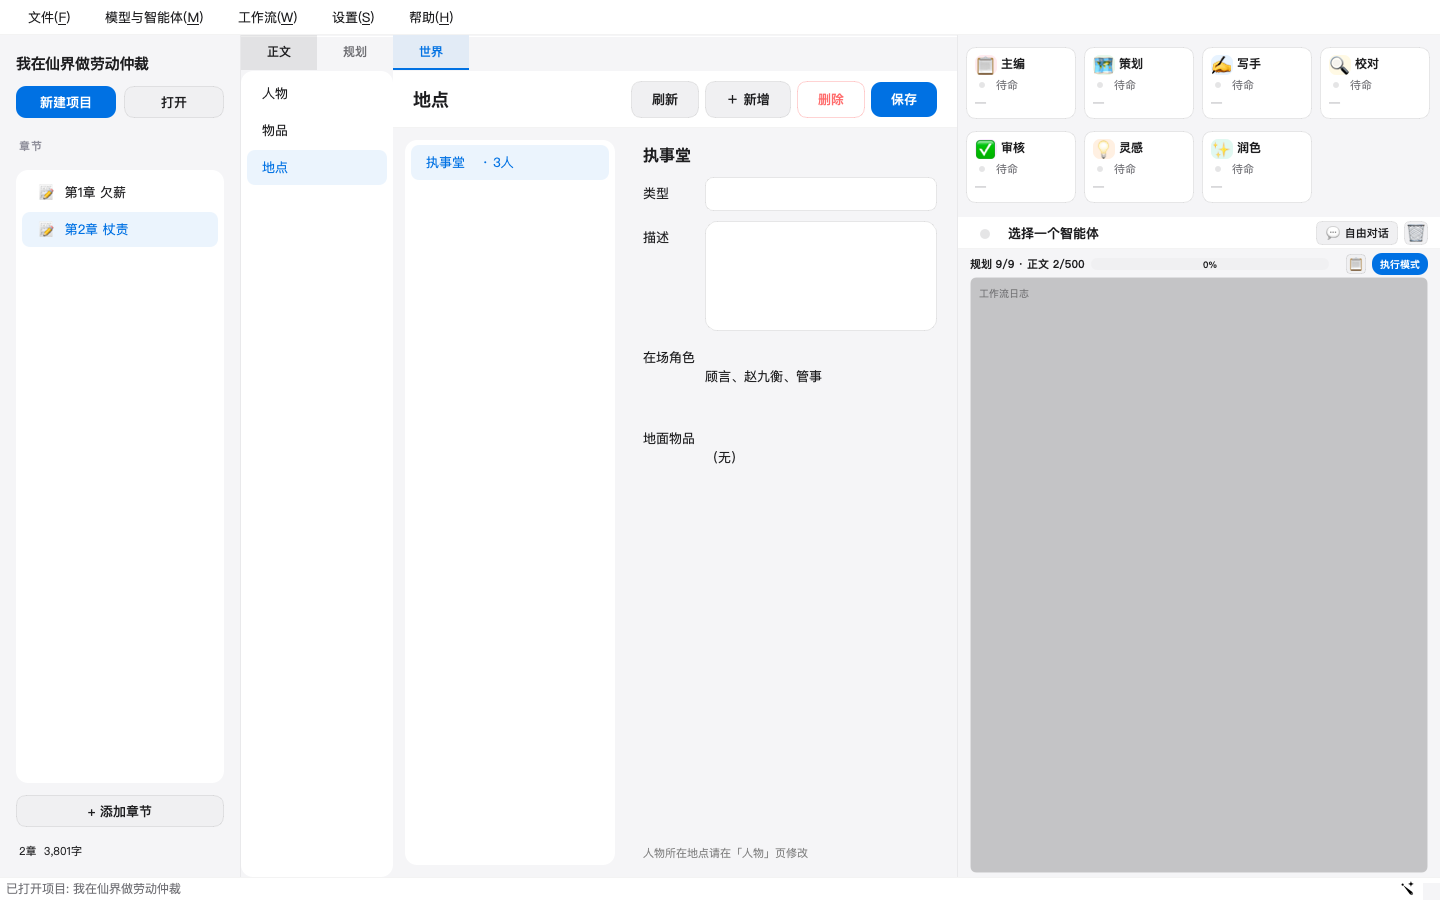
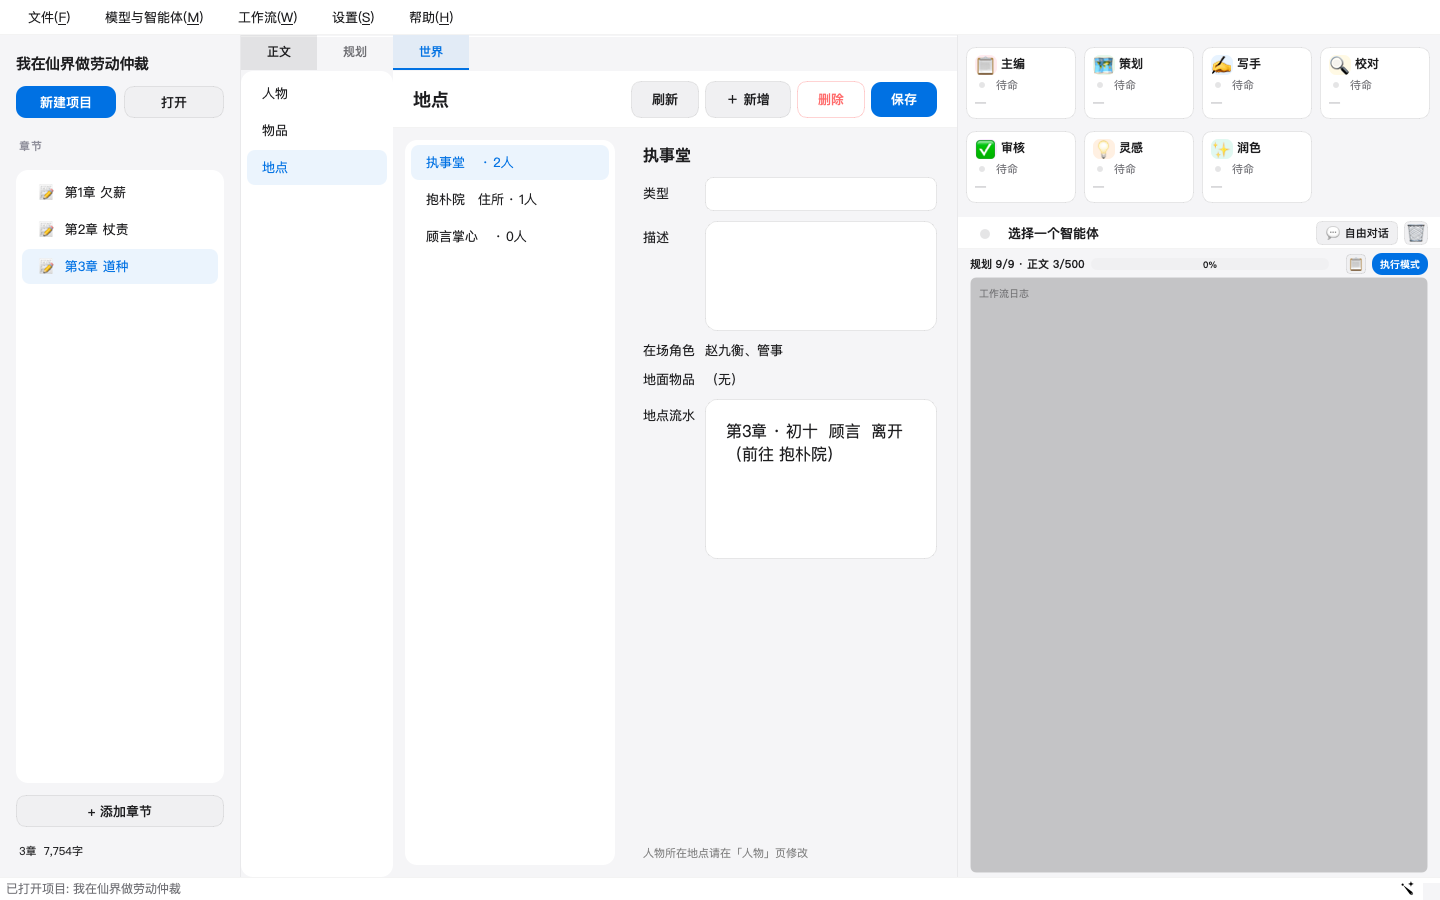
feat: 地点流水账（时间/人物/进入/离开）
- world_state 增加 location_log；角色 location 变化自动记 leave/enter
- world_state_update 按章节记录，正典重放带章节号
- 地点页显示地点流水：第几章/日期、谁进入/离开、来自/前往
- 历史地点即使当前无人也保留在左侧列表
- 302 passed

diff --git a/src/novel_writer/core/world_state.py b/src/novel_writer/core/world_state.py
@@ -56,6 +56,7 @@ class WorldState:
             "characters": {},
             "items_catalog": {},
             "timeline": [],
+            "location_log": [],
         }
 
     # ── 世界 ──
@@ -67,6 +68,26 @@ class WorldState:
     @property
     def locations(self) -> dict:
         return self.world.setdefault("locations", {})
+
+    @property
+    def location_log(self) -> list:
+        return self._data.setdefault("location_log", [])
+
+    def record_location_event(self, chapter: int, character: str, action: str,
+                              location: str, from_location: str = "") -> None:
+        """记录地点流水：谁、什么时候、进入/离开哪个地点。"""
+        if not character or not location:
+            return
+        self.location_log.append({
+            "chapter": int(chapter or 0),
+            "date": str(self.world.get("current_date") or ""),
+            "character": character,
+            "action": action,  # enter / leave
+            "location": location,
+            "from": from_location,
+        })
+        if len(self.location_log) > 2000:
+            del self.location_log[:len(self.location_log) - 2000]
 
     def add_location(self, name: str, info: dict) -> None:
         """地点是唯一实体：同名合并描述，不覆盖旧字段。"""
@@ -80,6 +101,9 @@ class WorldState:
         for c in self.characters.values():
             if isinstance(c, dict) and c.get("location"):
                 names.add(str(c["location"]))
+        for ev in self.location_log:
+            if isinstance(ev, dict) and ev.get("location"):
+                names.add(str(ev["location"]))
         for item in self.items_catalog.values():
             if not isinstance(item, dict):
                 continue
@@ -227,6 +251,13 @@ class WorldState:
                 levels = " → ".join(w["power_system"]["levels"])
                 parts.append(f"修炼等级: {levels}")
 
+        if self.location_log:
+            lines = []
+            for ev in self.location_log[-8:]:
+                action = "进入" if ev.get("action") == "enter" else "离开"
+                lines.append(f"- 第{ev.get('chapter', 0)}章 {ev.get('character', '')} {action} {ev.get('location', '')}")
+            parts.append("=== 地点流水（近期） ===\n" + "\n".join(lines))
+
         # 角色状态
         for name, char in self.characters.items():
             lines = [f"【{name}】"]
@@ -271,7 +302,7 @@ class WorldState:
 
     # ── LLM 结构化更新 ──
 
-    def apply_llm_update(self, update_json: dict) -> list[str]:
+    def apply_llm_update(self, update_json: dict, chapter: int = 0) -> list[str]:
         """应用 LLM 返回的状态更新 JSON。
 
         格式示例:
@@ -297,17 +328,25 @@ class WorldState:
         logs = []
 
         # 更新角色
+        chapter = int(chapter or update_json.get("_chapter") or 0)
         characters = update_json.get("characters") or {}
         if isinstance(characters, dict):
             for name, updates in characters.items():
                 if not isinstance(updates, dict):
                     continue
+                old_loc = str((self.characters.get(name) or {}).get("location") or "")
                 if name in self.characters:
                     self.update_character(name, updates)
                     logs.append(f"更新角色 {name}")
                 else:
                     self.add_character(name, updates)
                     logs.append(f"新增角色 {name}")
+                new_loc = str((self.characters.get(name) or {}).get("location") or "")
+                if old_loc != new_loc:
+                    if old_loc:
+                        self.record_location_event(chapter, name, "leave", old_loc, new_loc)
+                    if new_loc:
+                        self.record_location_event(chapter, name, "enter", new_loc, old_loc)
 
         # 物品操作（LLM 输出不可信，逐键取缺省）
         items = update_json.get("items") or {}

diff --git a/src/novel_writer/ui/character/world_page.py b/src/novel_writer/ui/character/world_page.py
@@ -6,7 +6,7 @@ from pathlib import Path
 from PySide6.QtCore import Qt
 from PySide6.QtWidgets import (
     QFormLayout, QHBoxLayout, QInputDialog, QLabel, QLineEdit,
-    QListWidget, QListWidgetItem, QMessageBox, QStackedWidget, QPlainTextEdit, QPushButton,
+    QListWidget, QListWidgetItem, QMessageBox, QPlainTextEdit, QStackedWidget, QPlainTextEdit, QPushButton,
     QTabWidget, QVBoxLayout, QWidget,
 )
 
@@ -160,6 +160,8 @@ class LocationPage(_WorldBase):
         self.desc = QPlainTextEdit(); self.desc.setMaximumHeight(110); self.form.addRow("描述", self.desc)
         self.occupants = QLabel(""); self.occupants.setWordWrap(True); self.form.addRow("在场角色", self.occupants)
         self.items = QLabel(""); self.items.setWordWrap(True); self.form.addRow("地面物品", self.items)
+        self.log = QPlainTextEdit(); self.log.setReadOnly(True); self.log.setMaximumHeight(160)
+        self.form.addRow("地点流水", self.log)
         self.people_hint = QLabel("人物所在地点请在「人物」页修改"); self.people_hint.setStyleSheet("font-size: 11px; color: gray;")
         self.form_layout.addWidget(self.people_hint)
 
@@ -173,13 +175,25 @@ class LocationPage(_WorldBase):
     def _load(self, name):
         if not self.gs: return
         if not name:
-            self.name_label.setText("还没有地点"); self.occupants.setText(""); self.items.setText(""); return
+            self.name_label.setText("还没有地点"); self.occupants.setText(""); self.items.setText("")
+            self.log.setPlainText(""); return
         self.gs.locations.setdefault(name, {})
         loc = self.gs.locations.get(name) or {}
         self.name_label.setText(name); self.type.setText(str(loc.get("type") or "")); self.desc.setPlainText(str(loc.get("description") or ""))
         people = self.gs.characters_at(name); items = self.gs.items_at(name)
         self.occupants.setText("、".join(people) or "（无人）")
         self.items.setText("、".join(items) or "（无）")
+        events = [e for e in self.gs.location_log if isinstance(e, dict) and e.get("location") == name]
+        lines = []
+        for e in reversed(events[-100:]):
+            action = "进入" if e.get("action") == "enter" else "离开"
+            src = e.get("from") or ""
+            suffix = f"（来自 {src}）" if action == "进入" and src else (f"（前往 {src}）" if action == "离开" and src else "")
+            when = f"第{e.get('chapter', 0)}章"
+            if e.get("date"):
+                when += f" · {e['date']}"
+            lines.append(f"{when}  {e.get('character', '')}  {action}{suffix}")
+        self.log.setPlainText("\n".join(lines) or "（暂无进出记录）")
 
     def _sync(self):
         if not self.gs or self.name_label.text() in ("还没有地点", "打开项目后管理"): return

diff --git a/tests/test_world_relations.py b/tests/test_world_relations.py
@@ -22,3 +22,33 @@ def test_location_occupants_and_item_positions(tmp_path: Path):
     assert gs.item_holder("青霜剑") == "楚夜"
     assert gs.get_item("青霜剑")["location"] == "山门"
     assert "青霜剑" not in gs.items_at("药圃")
+
+
+def test_location_move_records_ledger(tmp_path: Path):
+    gs = WorldState(tmp_path); gs.load()
+    gs.apply_llm_update({"characters": {"林牧": {"location": "药圃"}}}, chapter=1)
+    gs.apply_llm_update({"characters": {"林牧": {"location": "山门"}}}, chapter=2)
+
+    actions = [(e["chapter"], e["character"], e["action"], e["location"]) for e in gs.location_log]
+    assert (1, "林牧", "enter", "药圃") in actions
+    assert (2, "林牧", "leave", "药圃") in actions
+    assert (2, "林牧", "enter", "山门") in actions
+
+
+def test_location_page_shows_ledger(tmp_path):
+    from PySide6.QtWidgets import QApplication
+    from src.novel_writer.ui.character.world_page import WorldPage
+
+    app = QApplication.instance() or QApplication([])
+
+    gs = WorldState(tmp_path); gs.load()
+    gs.apply_llm_update({"characters": {"林牧": {"location": "药圃"}}}, chapter=1)
+    gs.apply_llm_update({"characters": {"林牧": {"location": "山门"}}}, chapter=2)
+    gs.save()
+    page = WorldPage(); page.set_project_dir(tmp_path)
+    page.list.setCurrentRow(2); app.processEvents()
+    names = [page.location_page.list.item(i).text().split("   ")[0] for i in range(page.location_page.list.count())]
+    page.location_page.list.setCurrentRow(names.index("药圃")); app.processEvents()
+    text = page.location_page.log.toPlainText()
+    assert "林牧" in text and "离开" in text
+    page.close()

diff --git a/src/novel_writer/core/workflow/prompts.py b/src/novel_writer/core/workflow/prompts.py
@@ -142,7 +142,7 @@ def build_world_state_prompt(n: int, gs_summary: str, content: str) -> str:
         f'  "timeline": [{{"event": "事件描述", "location": "地点"}}],\n' 
         f'  "date": "时间"\n'
         f'}}\n\n'
-        f"只输出本章发生变化的部分，没变化的字段不要输出。"
+        f"只输出本章发生变化的部分，没变化的字段不要输出。角色位置变化必须写 location，系统会据此生成地点进出流水。"
     )
 
 

diff --git a/src/novel_writer/core/workflow/builtin_steps.py b/src/novel_writer/core/workflow/builtin_steps.py
@@ -202,7 +202,7 @@ async def _run_world_state_update(runner: "WorkflowRunner", step: "WorkflowStep"
                 ))
             except Exception as e:
                 logger.warning("世界状态事件入正典失败（快照仍更新）: %s", e)
-            logs = gs.apply_llm_update(update)
+            logs = gs.apply_llm_update(update, chapter=n)
             gs.save()
             msg = f"大世界状态已更新: {', '.join(logs)}"
             logger.info(msg)

diff --git a/src/novel_writer/core/canon/projection.py b/src/novel_writer/core/canon/projection.py
@@ -67,7 +67,7 @@ def project_world_state(project_dir: Path, save: bool = True) -> dict:
         update = (event.payload or {}).get("update")
         if isinstance(update, dict):
             try:
-                ws.apply_llm_update(update)
+                ws.apply_llm_update(update, chapter=event.chapter)
             except Exception as e:
                 logger.warning("重放世界状态事件 %s 失败: %s", event.id, e)
 

diff --git a/README.md b/README.md
@@ -92,7 +92,7 @@ src/novel_writer/
 ├── designsystem/            # 主题 token（四套色板 + 自定义）
 └── locales.py               # 中/英 i18n
 
-tests/                       # 300 个单元/回归测试
+tests/                       # 302 个单元/回归测试
 config/                      # agents/providers 配置
 data/                        # 用户数据（gitignore）
 ```
@@ -122,7 +122,7 @@ data/                        # 用户数据（gitignore）
 - `max_context_tokens` 是**输入上下文预算**（默认 48K，设置里最高可到 1M），不是模型窗口本身；
 - 一级标签：`正文 / 规划 / 世界`；规划文档用左侧列表切换，不再有 10 个标签溢出；
 - 自由对话默认折叠，点右上「自由对话」展开；折叠时工作流日志自动占满剩余空间；聊天不落 SQLite；
-- `世界` 是独立页面，内含 **人物 / 物品 / 地点** 三个左侧菜单页；人物分档/状态/auto_sim/目标/备注，物品记录类型/效果/位置/持有者，地点反查在场角色与地面物品；菜单 `Ctrl+Alt+R` 直接切到人物子页；从人物设定建卡时会自动去括号/角色前缀并推断 core/recurring/extra；自由对话带只读工具，可查大纲/正文/记忆/世界状态；
+- `世界` 是独立页面，内含 **人物 / 物品 / 地点** 三个左侧菜单页；人物分档/状态/auto_sim/目标/备注，物品记录类型/效果/位置/持有者，地点反查在场角色与地面物品，并记录**地点流水**（第几章/时间、谁进入/离开、来自/前往）；菜单 `Ctrl+Alt+R` 直接切到人物子页；从人物设定建卡时会自动去括号/角色前缀并推断 core/recurring/extra；自由对话带只读工具，可查大纲/正文/记忆/世界状态；
 - 智能体状态条按 4 列两行展示，超过 8 个纵向滚动。
 
 ## 写作流程
@@ -258,7 +258,7 @@ logger.info("操作完成")
 ## 单元测试
 
 ```bash
-python -m pytest tests/ -q          # 全量：300 passed
+python -m pytest tests/ -q          # 全量：302 passed
 python -m pytest tests/test_workflow_runner.py -v
 python -m pytest tests/test_character_isolation.py -v
 ```

diff --git a/docs/项目存储与文件格式.md b/docs/项目存储与文件格式.md
@@ -112,5 +112,5 @@ write: 先写 .tmp → os.replace 原子改名
 - `storage/` 目录目前是抽象层占位（`__init__.py`），实际 IO 集中在 `project_io`。
 - 章节改名需同步正文 heading + 细纲文件名，`safe_rename_chapter` 已封装，禁止绕过直改文件名。
 - `chat.db` 默认不创建；只有 `config.json` 里 `save_chat_history=true` 才会落盘。
-- 工作流**不读** `chat.db`；上下文里的“记忆”来自 `memory.json` / `summary/` / `world_state.json` / `canon/`，不是聊天记录。
+- 工作流**不读** `chat.db`；上下文里的“记忆”来自 `memory.json` / `summary/` / `world_state.json`（含 `locations` / `items_catalog` / `location_log` 地点流水） / `canon/`，不是聊天记录。
 - 打包后 `data/` `config/` 在可执行文件旁创建，`logs/` 运行时自动建。
